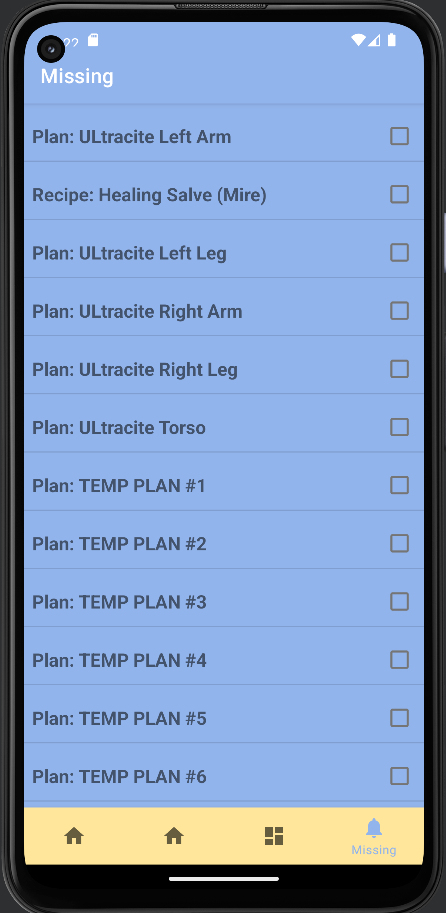
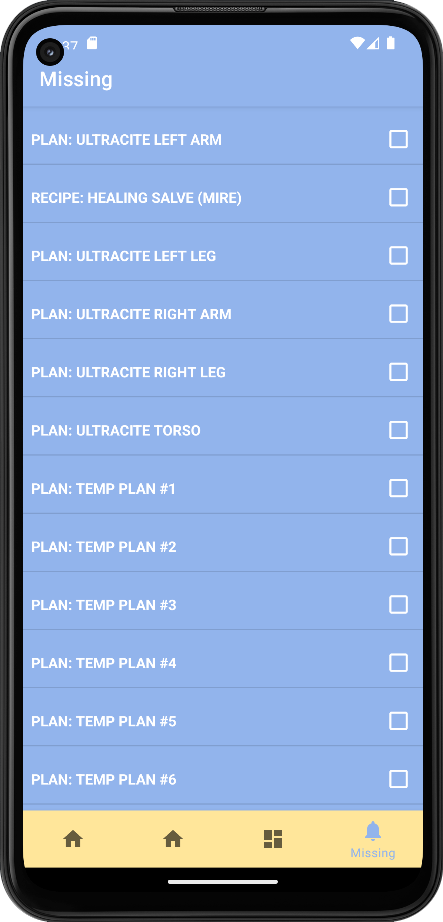
style changes

Changed region(s): [[0.0, 0.0, 1.0, 1.0]]

diff --git a/app/src/main/java/com/example/planmoddatabase/ui/MissingFragment.java b/app/src/main/java/com/example/planmoddatabase/ui/MissingFragment.java
@@ -28,22 +28,22 @@ public class MissingFragment extends Fragment {
 
         ArrayList<String> unknownPlans = new ArrayList<>();
         //Do this in a loop over unknown plans
-        unknownPlans.add("Plan: ULtracite Left Arm");
-        unknownPlans.add("Recipe: Healing Salve (Mire)");
-        unknownPlans.add("Plan: ULtracite Left Leg");
-        unknownPlans.add("Plan: ULtracite Right Arm");
-        unknownPlans.add("Plan: ULtracite Right Leg");
-        unknownPlans.add("Plan: ULtracite Torso");
-        unknownPlans.add("Plan: TEMP PLAN #1");
-        unknownPlans.add("Plan: TEMP PLAN #2");
-        unknownPlans.add("Plan: TEMP PLAN #3");
-        unknownPlans.add("Plan: TEMP PLAN #4");
-        unknownPlans.add("Plan: TEMP PLAN #5");
-        unknownPlans.add("Plan: TEMP PLAN #6");
-        unknownPlans.add("Plan: TEMP PLAN #7");
-        unknownPlans.add("Plan: TEMP PLAN #8");
-        unknownPlans.add("Plan: TEMP PLAN #9");
-        unknownPlans.add("Plan: TEMP PLAN #10");
+        unknownPlans.add("PLAN: ULTRACITE LEFT ARM");
+        unknownPlans.add("RECIPE: HEALING SALVE (MIRE)");
+        unknownPlans.add("PLAN: ULTRACITE LEFT LEG");
+        unknownPlans.add("PLAN: ULTRACITE RIGHT ARM");
+        unknownPlans.add("PLAN: ULTRACITE RIGHT LEG");
+        unknownPlans.add("PLAN: ULTRACITE TORSO");
+        unknownPlans.add("PLAN: TEMP PLAN #1");
+        unknownPlans.add("PLAN: TEMP PLAN #2");
+        unknownPlans.add("PLAN: TEMP PLAN #3");
+        unknownPlans.add("PLAN: TEMP PLAN #4");
+        unknownPlans.add("PLAN: TEMP PLAN #5");
+        unknownPlans.add("PLAN: TEMP PLAN #6");
+        unknownPlans.add("PLAN: TEMP PLAN #7");
+        unknownPlans.add("PLAN: TEMP PLAN #8");
+        unknownPlans.add("PLAN: TEMP PLAN #9");
+        unknownPlans.add("PLAN: TEMP PLAN #10");
 
         myList.setAdapter(new AdapterUnknown(unknownPlans, view.getContext()) );
 
